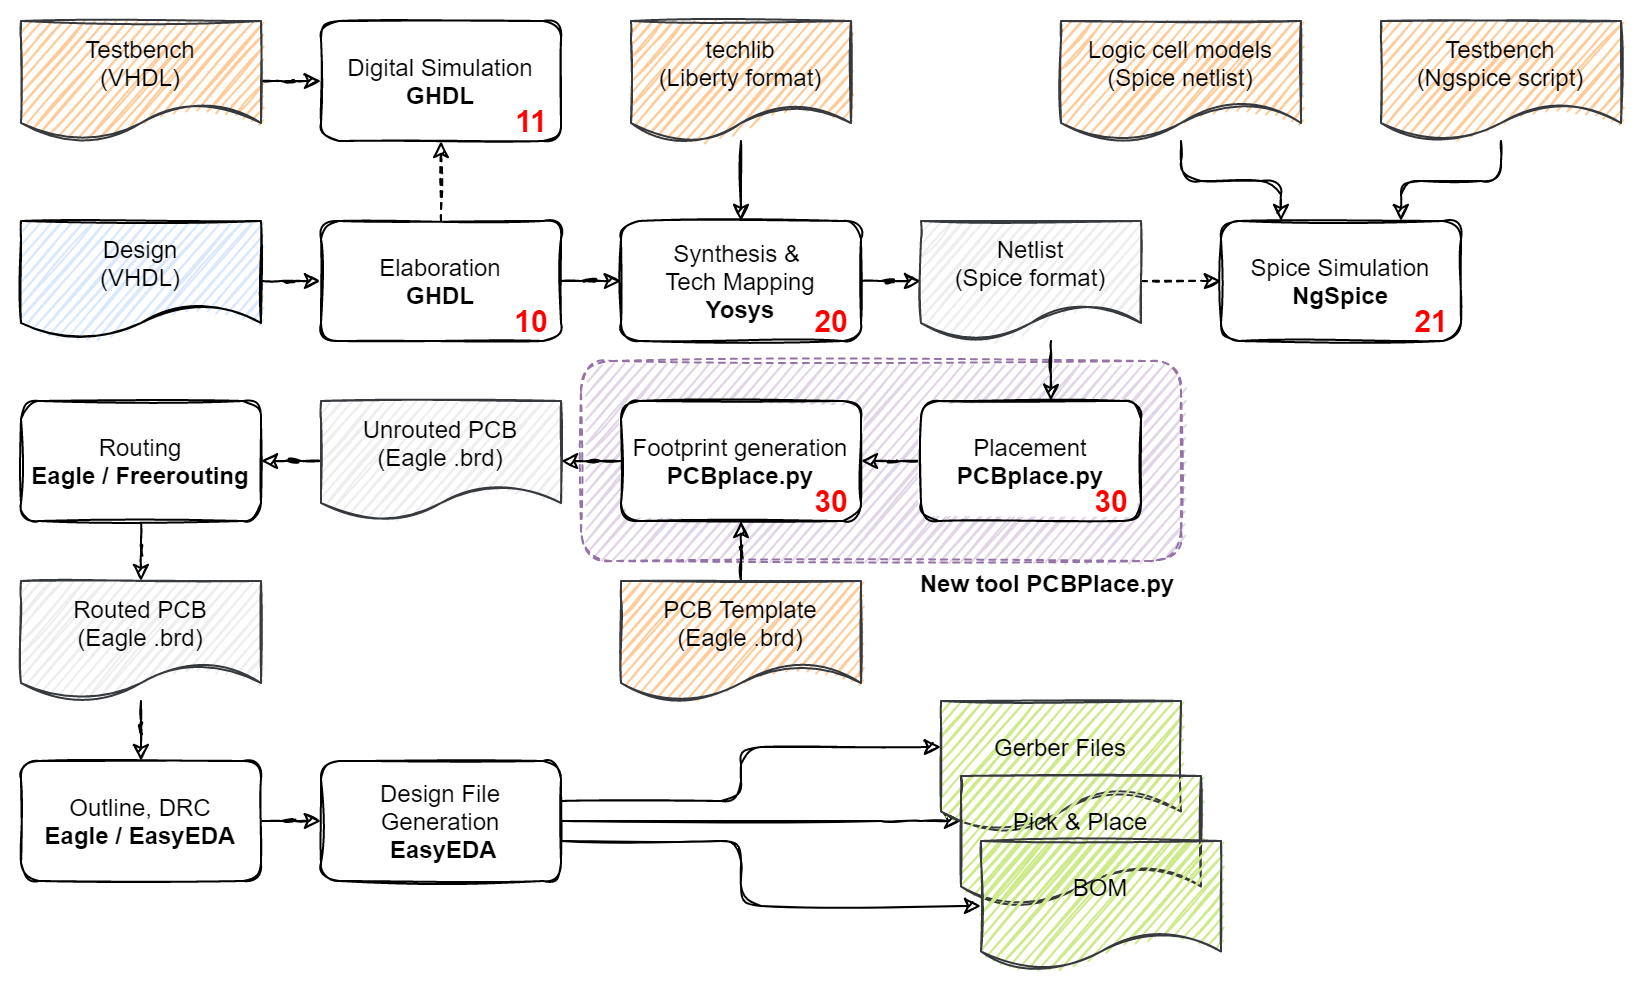
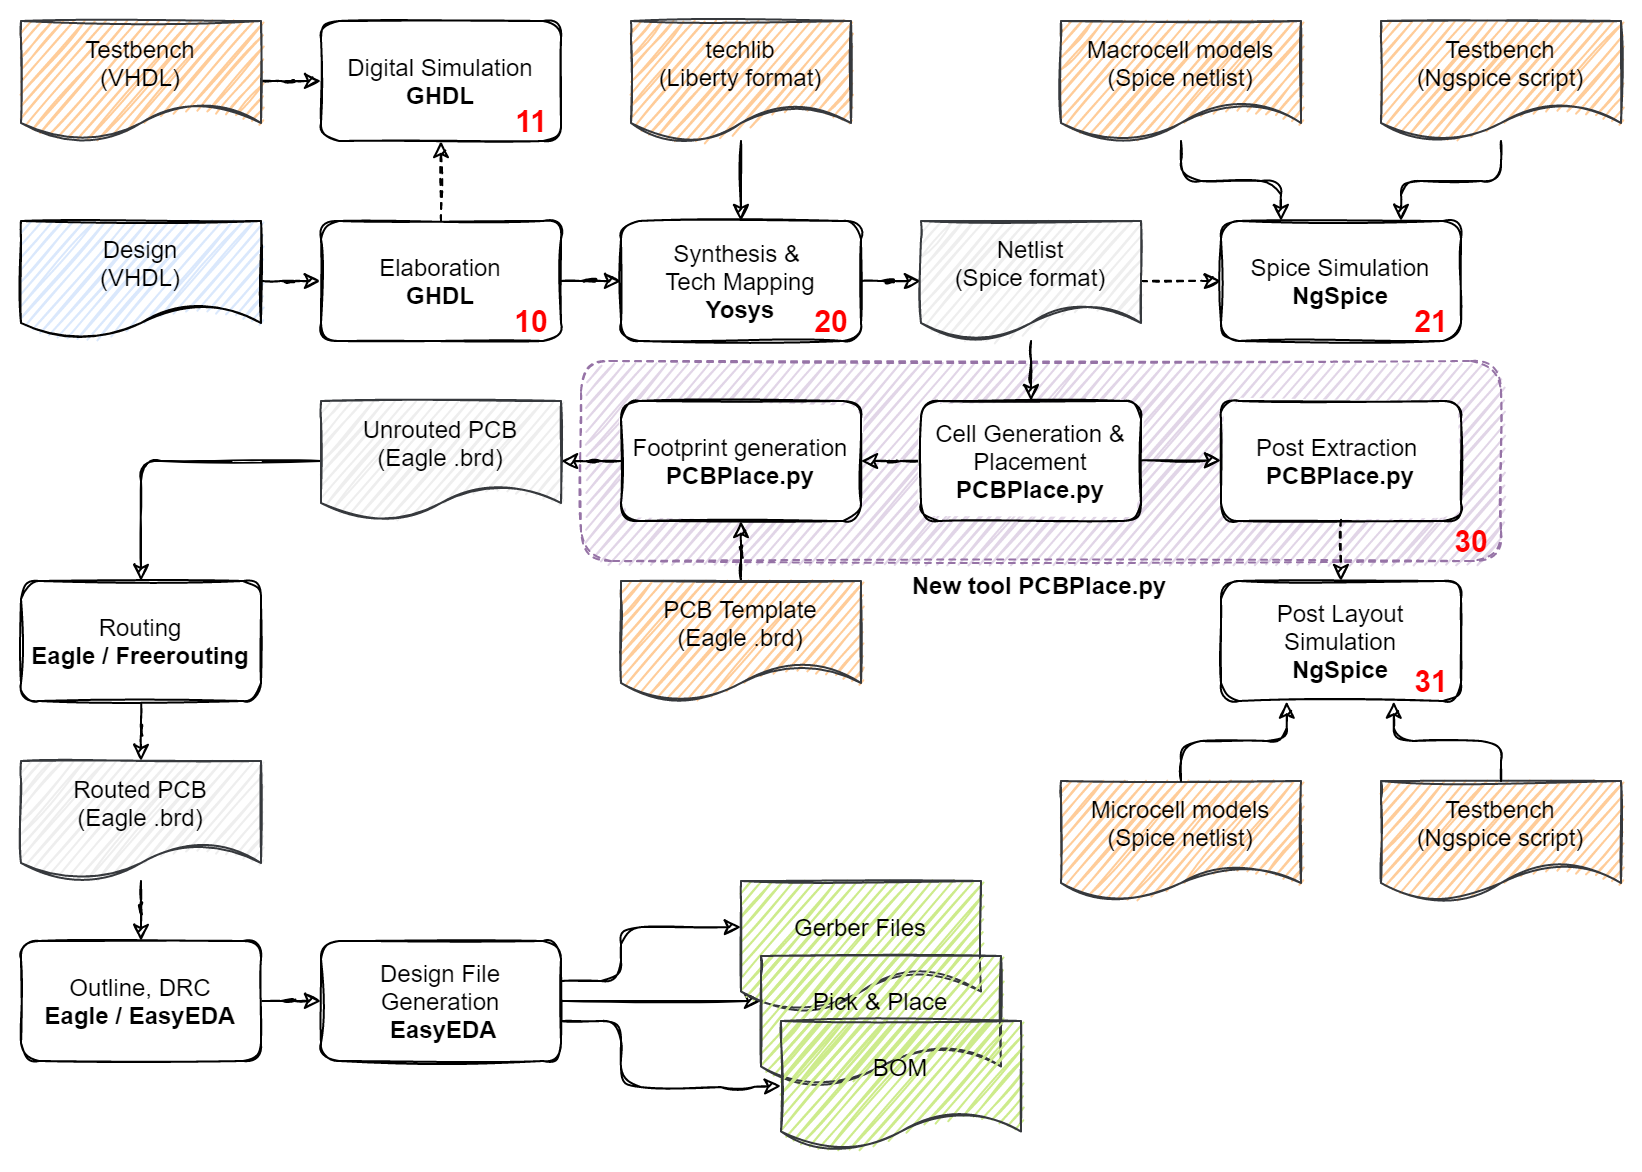
introduct post layout extraction and simulation

diff --git a/30_PLACE/PCBPlace.py b/30_PLACE/PCBPlace.py
@@ -601,19 +601,19 @@ def detailedoptimization(startarray, initialtemp=1, coolingrate=0.95, optimizati
 
 # !!! You need to update the lines below to adjust for your design!!! 
 
-ArrayXwidth = 14         # This is the width of the grid and should be equal to or larger than the number of I/O pins plus two supply pins!
-DesignArea  = 28         # This is the number of unit cells required for the design. It is outputted as "chip area" during the Synthesis step
+ArrayXwidth = 7          # This is the width of the grid and should be equal to or larger than the number of I/O pins plus two supply pins!
+DesignArea  = 27         # This is the number of unit cells required for the design. It is outputted as "chip area" during the Synthesis step
                          # Fixedio fixes I/O positions within the first row. Leave empty if you want the tool to assign positions.
-# FixedIO     = []         # Default, tool assigns I/O
-FixedIO     =      ["VCC","inv_a", "inv_y", "xor_a", "xor_b", "xor_y", "and_a", "and_b", "and_y", "d", "clk", "q"] # for moregates.vhd
+FixedIO     = []         # Default, tool assigns I/O
+# FixedIO     =      ["VCC","inv_a", "inv_y", "xor_a", "xor_b", "xor_y", "and_a", "and_b", "and_y", "d", "clk", "q"] # for moregates.vhd
 
 # Optimizer settings. Only change when needed
 
-AreaMargin = 0.3+1        # This is additional area that is reserved for empty cells. This value should be larger than zero to allow optimization.
+AreaMargin = 0.3        # This is additional area that is reserved for empty cells. This value should be larger than zero to allow optimization.
                         # Too large values will result in waste of area.
-CoarseAttempts = 2     # 20
-CoarseCycles   = 10   # 1000
-FineCycles     = 100  # 10000 Increase to improve larger designs. 
+CoarseAttempts = 20     # 20
+CoarseCycles   = 1000   # 1000
+FineCycles     = 10000  # 10000 Increase to improve larger designs. 
 
 # Pitch of grid on PCB in mm
 
